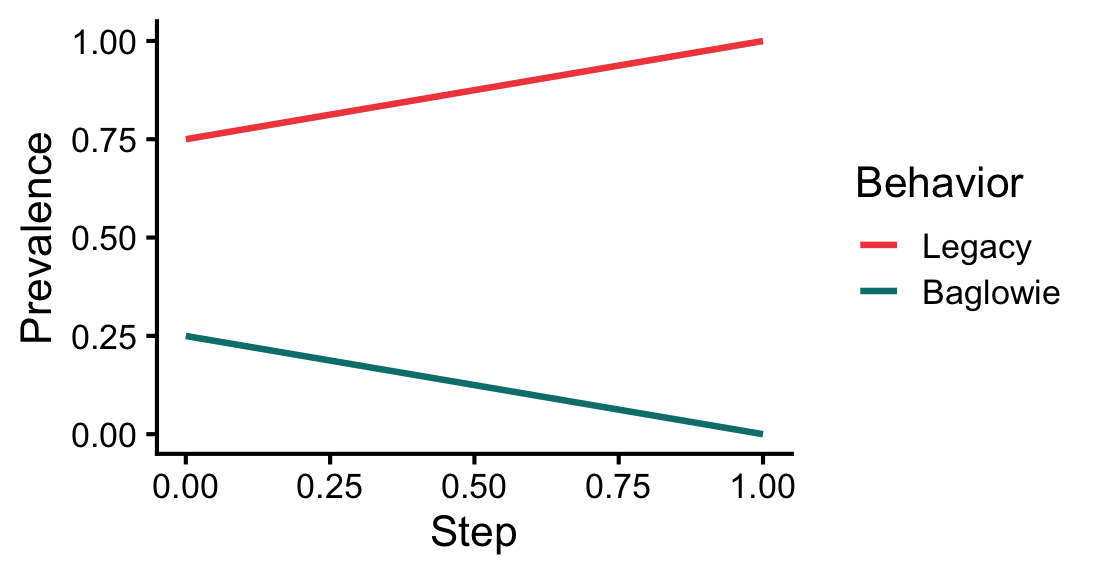
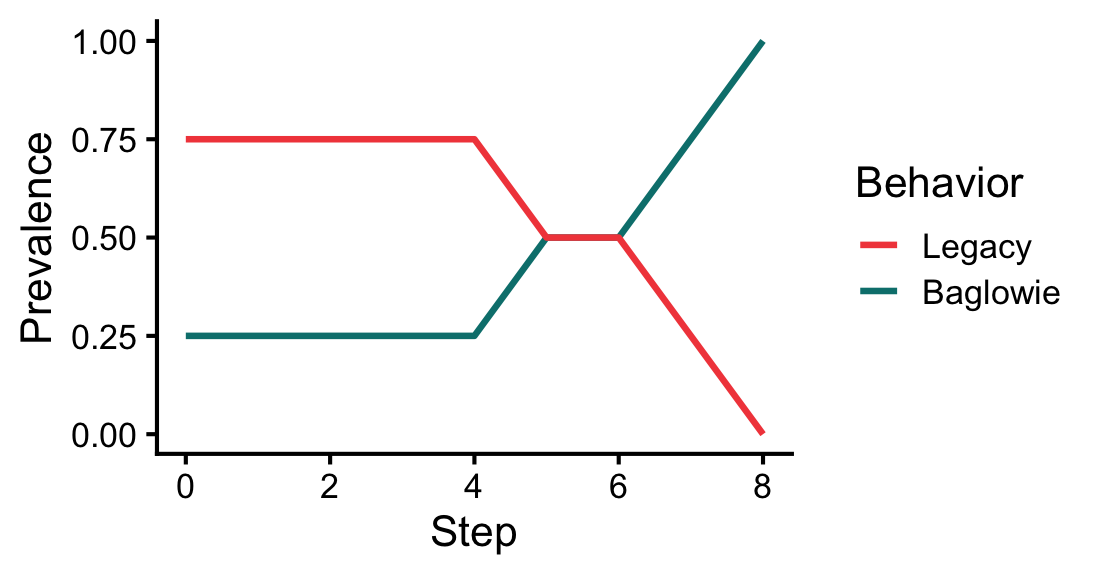
zero errors in roxygen examples

diff --git a/docs/articles/basic-diffusion-components.html b/docs/articles/basic-diffusion-components.html
@@ -448,7 +448,7 @@
 <code class="sourceCode R"><span><span class="va">footballer</span> <span class="op">&lt;-</span> <span class="va">Footballer</span><span class="op">$</span><span class="fu">new</span><span class="op">(</span>accuracy <span class="op">=</span> <span class="fl">0.5</span><span class="op">)</span></span>
 <span><span class="va">footballer</span><span class="op">$</span><span class="fu">scored_goal</span><span class="op">(</span><span class="op">)</span></span></code></pre></div>
 <div class="cell-output cell-output-stdout">
-<pre><code>[1] 1</code></pre>
+<pre><code>[1] 0</code></pre>
 </div>
 <div class="sourceCode cell-code" id="cb59"><pre class="downlit sourceCode r">
 <code class="sourceCode R"><span><span class="co"># sum(purrr::map_vec(1:10, \(.) p$scored_goal()))</span></span></code></pre></div>
@@ -518,19 +518,19 @@
 <span><span class="fu">play_match</span><span class="op">(</span><span class="va">whales</span>, <span class="va">squirrels</span><span class="op">)</span></span></code></pre></div>
 <div class="cell-output cell-output-stdout">
 <pre><code>Squirrels wins!!!
-Whales :  5     Squirrels :  6 </code></pre>
+Whales :  1     Squirrels :  2 </code></pre>
 </div>
 <div class="sourceCode cell-code" id="cb63"><pre class="downlit sourceCode r">
 <code class="sourceCode R"><span><span class="fu">play_match</span><span class="op">(</span><span class="va">squirrels</span>, <span class="va">whales</span><span class="op">)</span></span></code></pre></div>
 <div class="cell-output cell-output-stdout">
 <pre><code>Whales wins!!!
-Squirrels :  5     Whales :  8 </code></pre>
+Squirrels :  2     Whales :  4 </code></pre>
 </div>
 <div class="sourceCode cell-code" id="cb65"><pre class="downlit sourceCode r">
 <code class="sourceCode R"><span><span class="fu">play_match</span><span class="op">(</span><span class="va">squirrels</span>, <span class="va">whales</span><span class="op">)</span></span></code></pre></div>
 <div class="cell-output cell-output-stdout">
-<pre><code>Squirrels wins!!!
-Squirrels :  4     Whales :  2 </code></pre>
+<pre><code>Whales wins!!!
+Squirrels :  2     Whales :  3 </code></pre>
 </div>
 <div class="sourceCode cell-code" id="cb67"><pre class="downlit sourceCode r">
 <code class="sourceCode R"><span><span class="co"># Print how many games each time won.</span></span>
@@ -539,7 +539,7 @@ Squirrels :  4     Whales :  2 </code></pre>
 <div class="cell-output cell-output-stdout">
 <pre><code>
 After three games...
-The Whales have won 1 games and the Squirrels have won 2</code></pre>
+The Whales have won 2 games and the Squirrels have won 1</code></pre>
 </div>
 </div>
 </section></section><section class="level2"><h2 id="agent-based-models-of-social-behavior">Agent-based models of social behavior<a class="anchor" aria-label="anchor" href="#agent-based-models-of-social-behavior"></a>